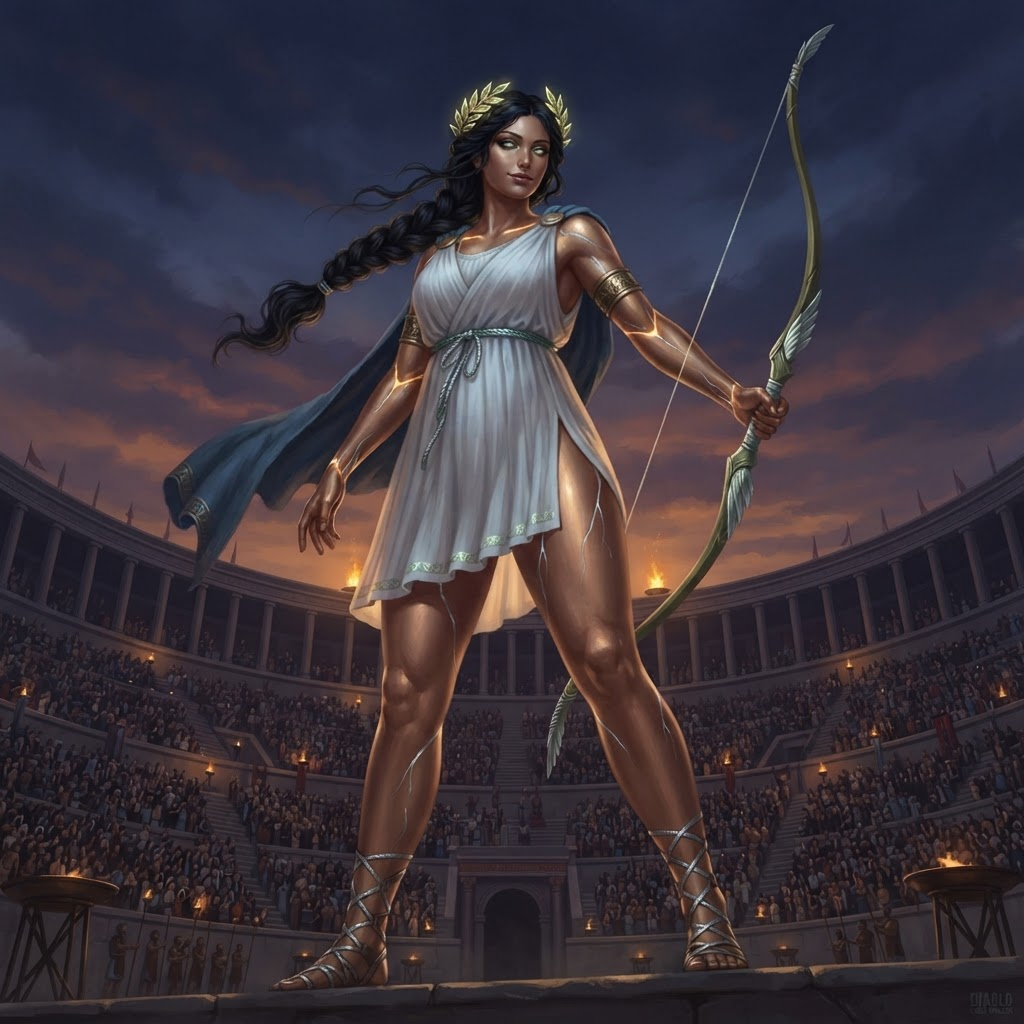
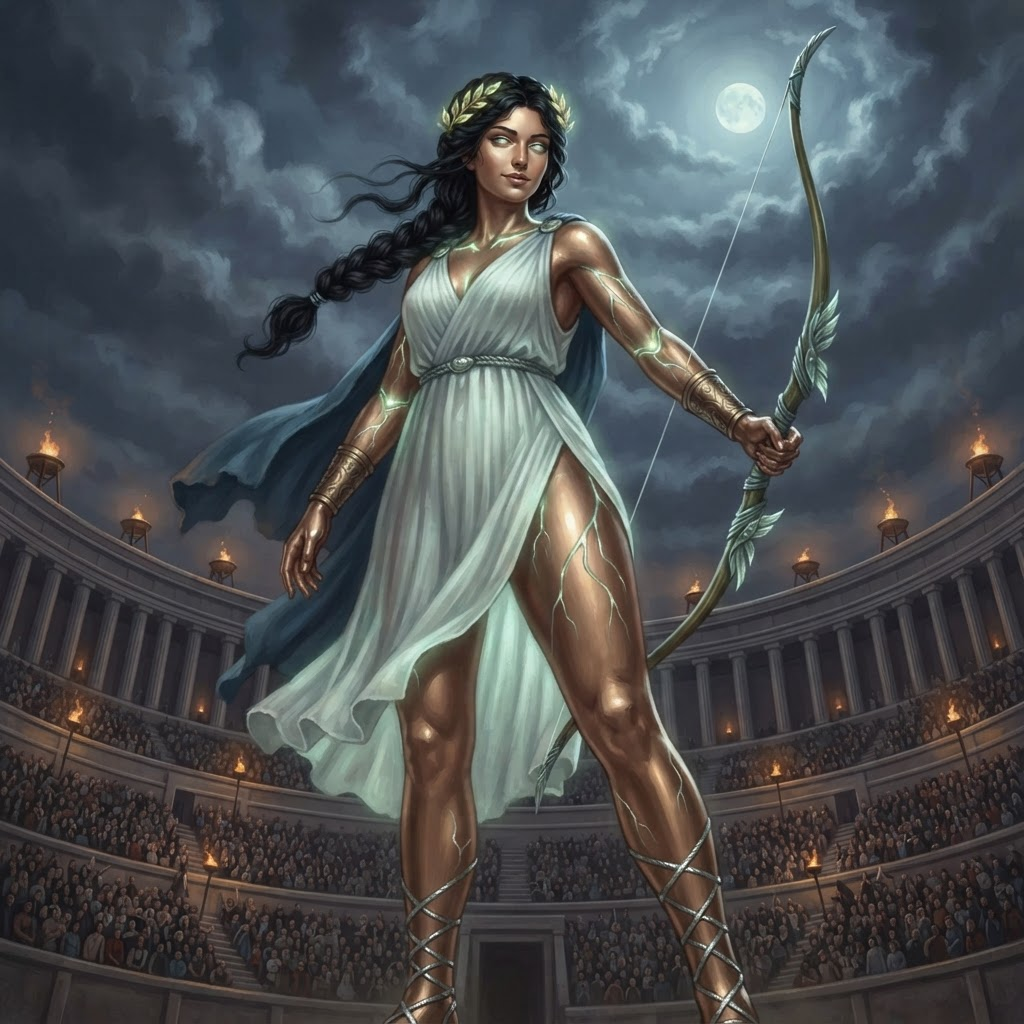
F003 v4: feminine females (soft curves, divine beauty) + Aethrokles on classical Greek statuary realism (Zeus-type face, full beard, zero anime); v3 purged; femininity + anti-anime rules locked in standard

diff --git a/docs/TITAN_DESIGN_STANDARD.md b/docs/TITAN_DESIGN_STANDARD.md
@@ -81,3 +81,7 @@ All male titans are POWERFULLY MUSCLED — broad, heavy, godlike mass. NEVER thi
 ## FEMININITY & REALISM RULES (Sept 3 2026, BudE404, LOCKED)
 - FEMALE RULE: female titans stay FEMININE — soft full curves, rounded hips, graceful shoulders, delicate hands, beautiful serene faces, kohl-lined eyes. Godflesh and tone without masculine muscle mass. Seduction lives in curves, styling and presence.
 - ANTI-ANIME RULE: all faces read CLASSICAL REALISM modeled on Hellenistic statuary (Zeus of Artemision for mature males, kore/Aphrodite for females) — realistic proportions, heavy brows, aquiline or soft straight noses. NO elongated stylized faces, NO oversized shiny eyes, NO spiky hair.
+
+## FEMININITY & REALISM RULES (Sept 3 2026, BudE404, LOCKED)
+- FEMALE TITANS ARE FEMININE: soft curves, gentle waists, graceful shoulders, delicate hands, beautiful serene faces. Athletic tone yes — masculine muscle mass never. Divine feminine beauty, always seductive per the art direction.
+- GREEK TITANS READ GREEK: faces modeled on classical Hellenistic statuary (Zeus of Artemision, kore, Aphrodite types) — heavy brows, aquiline noses, realistic features. NO anime stylization: no elongated faces, no oversized shiny eyes, no spiky hair.
